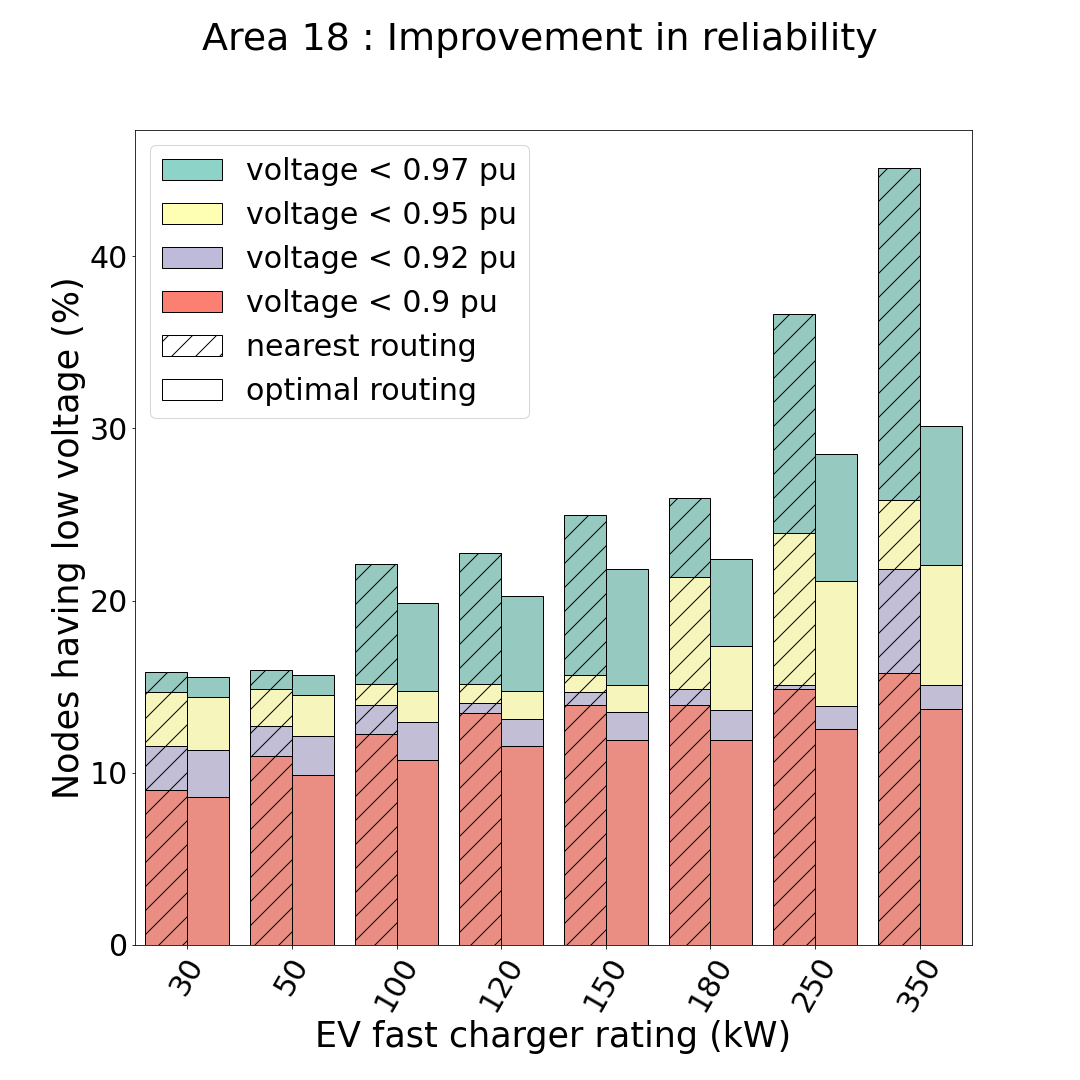
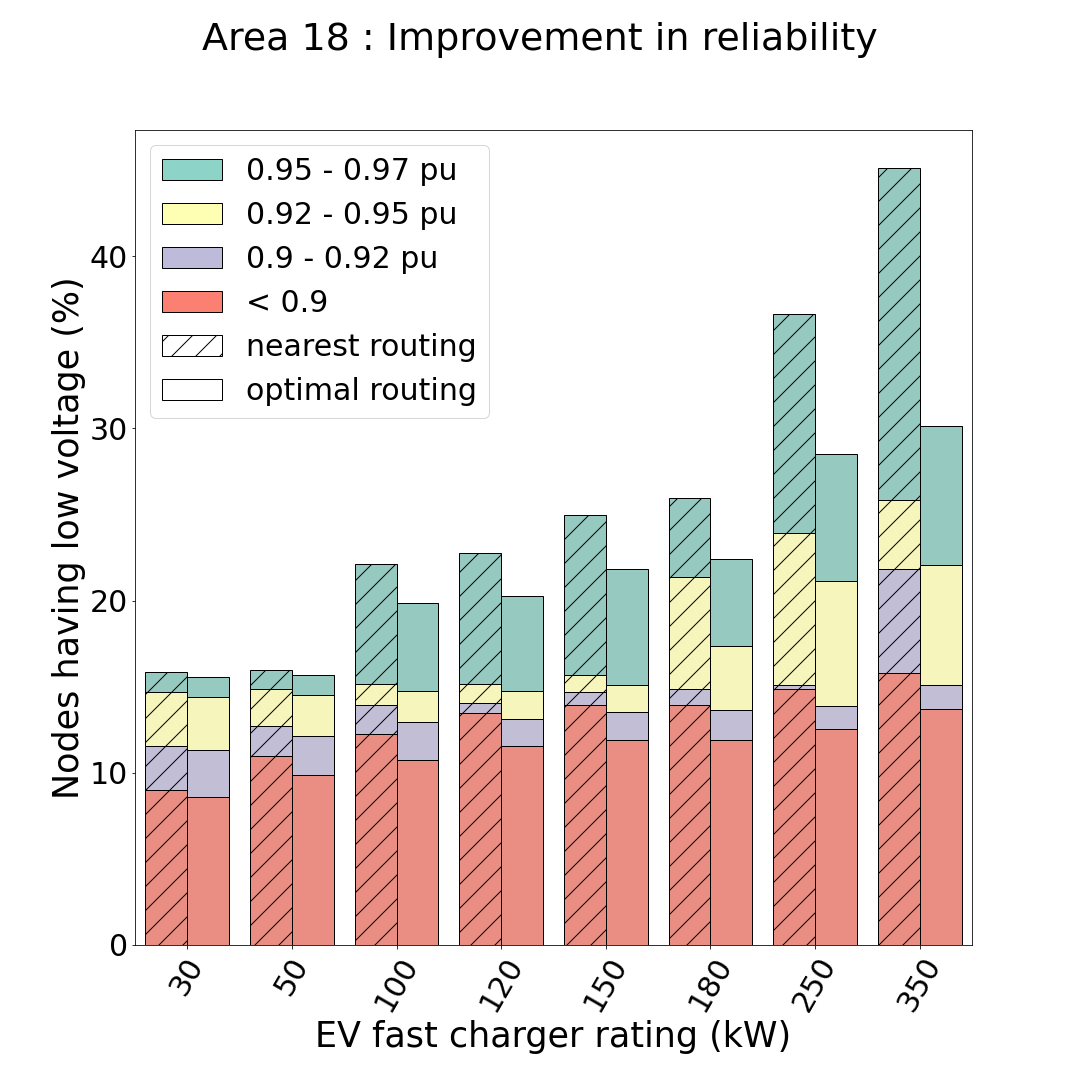
updated figs

Changed region(s): [[0.2139, 0.1222, 0.4889, 0.3056]]

diff --git a/pyEVCSlib.py b/pyEVCSlib.py
@@ -511,7 +511,13 @@ class EVCSFixture(unittest.TestCase):
         if csv_file:
             df_data = pd.read_csv(f"{self.out_dir}/{csv_file}")
         
-        groups_string = [f"voltage {x} pu" for x in df_data.columns if '<' in x]
+        groups_string = []
+        vrange = sorted([float(x.lstrip("< ")) for x in df_data.columns if '<' in x])[::-1]
+        for k in range(len(vrange)):
+            if k != len(vrange) - 1:
+                groups_string.append(f"{vrange[k+1]} - {vrange[k]} pu")
+            else:
+                groups_string.append(f"< {vrange[k]}")
         groups = [x for x in df_data.columns if '<' in x]
         num_stack = len(groups)
         colors = sns.color_palette("Set3")[:num_stack]
@@ -567,7 +573,7 @@ class EVCSFixture(unittest.TestCase):
             return fig, ax
         pass
     
-    def plot_tradeoff(
+    def plot_tradeoff1(
             self, csv_file = None, df_data=None, area=None,
             ax=None, to_file=None, show=True,
             **kwargs
@@ -585,7 +591,13 @@ class EVCSFixture(unittest.TestCase):
         # Filter out only data corresponding to optimal routing
         df_data = df_data.loc[df_data["connection"]=="optimal"]
 
-        groups_string = [f"voltage {x} pu" for x in df_data.columns if '<' in x]
+        groups_string = []
+        vrange = sorted([float(x.lstrip("< ")) for x in df_data.columns if '<' in x])[::-1]
+        for k in range(len(vrange)):
+            if k != len(vrange) - 1:
+                groups_string.append(f"{vrange[k+1]:0.2f} - {vrange[k]:0.2f} pu")
+            else:
+                groups_string.append(f"< {vrange[k]:0.2f}")
         groups = [x for x in df_data.columns if '<' in x]
         num_stack = len(groups)
         colors = sns.color_palette("Set3")[:num_stack]
@@ -654,6 +666,48 @@ class EVCSFixture(unittest.TestCase):
         # leg1 = ax.legend(handles=han1,ncol=1,prop={'size': 50},loc='center right')
         axs[1].legend(handles=han1+han2,ncol=1,prop={'size': 30},loc='upper left')
         # ax.add_artist(leg1)
+        
+        # ---- Edit the title of the plot ----
+
+        if file_name_sfx := kwargs.get('file_name_sfx'):
+            if not to_file:
+                to_file = f"{area}"
+            to_file = f"{to_file}_{file_name_sfx}"
+
+        if no_ax:
+            to_file = f"{self.fig_dir}/{to_file}.png"
+            suptitle = f"{self.area}"
+            if suptitle_sfx := kwargs.get('suptitle_sfx'):
+                suptitle = f"{suptitle} : {suptitle_sfx}"
+
+            fig.suptitle(suptitle, fontsize=fontsize+3)
+            close_fig(fig, to_file, show)
+
+        if do_return:
+            return fig, ax
+        pass
+    
+    def plot_tradeoff(
+            self, csv_file = None, df_data=None, area=None,
+            ax=None, to_file=None, show=True,
+            **kwargs,
+            ):
+        kwargs.setdefault('figsize', (32, 15))
+        fontsize = kwargs.get('fontsize', 30)
+        do_return = kwargs.get('do_return', False)
+        if not area:
+            area = self.area
+            
+        if csv_file:
+            df_data = pd.read_csv(f"{self.out_dir}/{csv_file}")
+            
+        # Filter out only data corresponding to optimal routing
+        df_data = df_data.loc[df_data["connection"]=="optimal"]
+        
+        # ---- PLOT ----
+        fig, axs, no_ax = get_fig_from_ax(ax, **kwargs)
+        
+        
         
         # ---- Edit the title of the plot ----
 

diff --git a/plot-summary.py b/plot-summary.py
@@ -21,7 +21,7 @@ for area in [3, 6, 7, 9, 13, 14, 16, 17, 18, 19, 20]:
                         to_file=f"{fx.area}-improvement", 
                         show=False, fontsize=35)
 
-    fx.plot_tradeoff(csv_file=f"{fx.area}_summary.csv", 
+    fx.plot_tradeoff1(csv_file=f"{fx.area}_summary.csv", 
                         suptitle_sfx = "Investment to reliability trade off", 
                         to_file=f"{fx.area}-tradeoff", 
                         show=False, fontsize=35)
